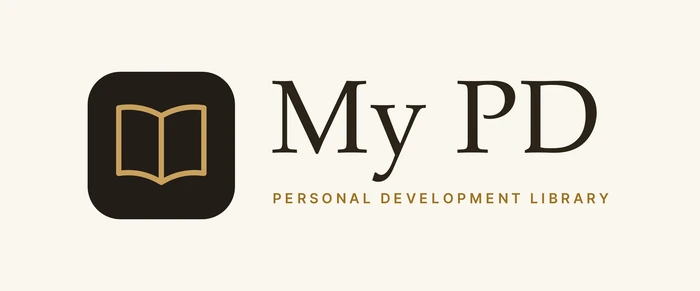
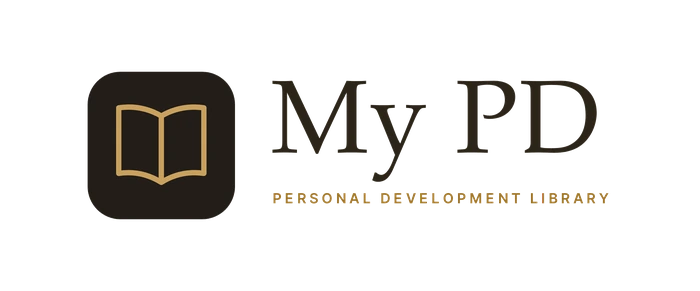
Add Dispatch It, completing the project set at seven
New page at /projects/dispatch-it, plus a collage tile, an interest option,
a prefill mapping and a sitemap entry. The sibling nav on all six existing
pages was regenerated so Dispatch It appears there too.

Dispatch It shipped a proper 1200x630 social card, so its page uses that for
og:image with summary_large_image, rather than the square icon the other six
fall back to.

Both the Dispatch It and My PD horizontal wordmarks had a flat cream
background baked in, which rendered as a visible block against the near-white
hero. Keyed out with a distance-based alpha ramp so the antialiased edges
survive.

No public URL was supplied for Dispatch It, so it carries the same demo
request as the other tools.

Claude-Session: https://claude.ai/code/session_014mb2YU36o7Daf5PkMpEeNJ

Changed region(s): [[0.39, 0.6495, 0.87, 0.7113]]

diff --git a/mkc-site/projects/dispatch-it.html b/mkc-site/projects/dispatch-it.html
@@ -1,0 +1,233 @@
+<!DOCTYPE html>
+<html lang="en">
+<head>
+  <meta charset="UTF-8" />
+  <meta name="viewport" content="width=device-width, initial-scale=1" />
+  <meta name="theme-color" content="#0f1113" />
+  <title>Dispatch It | MK Holding Co</title>
+  <meta name="description" content="Dispatch It is a pocket capture app for ClickUp. Say it once and it files itself in the right list, with the right date, and a one-tap undo on everything." />
+  <link rel="canonical" href="https://www.mkholdingco.com/projects/dispatch-it" />
+
+  <link rel="icon" type="image/png" href="/media/mkc-logo-1-150x150.png" />
+  <link rel="apple-touch-icon" href="/media/mkc-logo-1-150x150.png" />
+
+  <meta property="og:type" content="website" />
+  <meta property="og:site_name" content="MK Holding Co" />
+  <meta property="og:url" content="https://www.mkholdingco.com/projects/dispatch-it" />
+  <meta property="og:title" content="Dispatch It | MK Holding Co" />
+  <meta property="og:description" content="Dispatch It is a pocket capture app for ClickUp. Say it once and it files itself in the right list, with the right date, and a one-tap undo on everything." />
+  <meta property="og:image" content="https://www.mkholdingco.com/projects/assets/dispatch-it-card.webp" />
+  <meta name="twitter:card" content="summary_large_image" />
+  <meta name="twitter:title" content="Dispatch It | MK Holding Co" />
+  <meta name="twitter:description" content="Dispatch It is a pocket capture app for ClickUp. Say it once and it files itself in the right list, with the right date, and a one-tap undo on everything." />
+  <meta name="twitter:image" content="https://www.mkholdingco.com/projects/assets/dispatch-it-card.webp" />
+
+  <link rel="preconnect" href="https://fonts.googleapis.com" />
+  <link rel="preconnect" href="https://fonts.gstatic.com" crossorigin />
+  <link href="https://fonts.googleapis.com/css2?family=Inter:wght@300;400;500;600&family=Playfair+Display:wght@500;600&display=swap" rel="stylesheet" />
+  <link rel="stylesheet" href="/styles.css" />
+  <link rel="stylesheet" href="/project.css" />
+  <style>
+    body {
+      --accent: #e6a03c;
+      --accent-ink: #8f5f10;
+      --accent-wash: color-mix(in srgb, #e6a03c 12%, transparent);
+    }
+  </style>
+</head>
+<body>
+  <a class="skip-link" href="#main">Skip to content</a>
+
+  <header class="site-header">
+    <div class="shell header-inner">
+      <a href="/" class="brand" aria-label="MK Holding Co, home">
+        <picture>
+          <source srcset="/media/mkc-logo.webp" type="image/webp" />
+          <img src="/media/mkc-logo-1.png" alt="MK Holding Co" class="brand-logo" width="420" height="225" />
+        </picture>
+      </a>
+      <button class="nav-toggle" aria-label="Open menu" aria-expanded="false" aria-controls="primary-nav">
+        <span></span><span></span><span></span>
+      </button>
+      <nav class="site-nav" id="primary-nav" aria-label="Primary">
+        <a href="/#ventures">Projects</a>
+        <a href="/#approach">Approach</a>
+        <a href="/#standards">Standards</a>
+        <a href="/?project=dispatch-it#contact" class="nav-cta">Contact</a>
+      </nav>
+    </div>
+  </header>
+
+  <main id="main">
+    <nav class="crumb shell" aria-label="Breadcrumb">
+      <ol>
+        <li><a href="/">MK Holding Co</a></li>
+        <li><a href="/#ventures">Projects</a></li>
+        <li><span aria-current="page">Dispatch It</span></li>
+      </ol>
+    </nav>
+
+    <section class="proj-hero">
+      <div class="shell">
+        <img class="proj-mark" src="/projects/assets/dispatch-it-wordmark.webp" alt="Dispatch It" width="380" height="99" />
+        <p class="status">Progressive web app</p>
+        <h1>Say it once. It lands in the right list.</h1>
+        <p class="proj-lede">A pocket capture app for ClickUp. Type or say what is on your mind, and it files itself in the right place with the right date. Duplicates become updates, and every action can be undone.</p>
+        <div class="proj-actions">
+          <a class="btn btn-solid" href="/?project=dispatch-it#contact">Request a demo</a>
+          <a class="btn btn-line" href="/#ventures">All projects</a>
+        </div>
+      </div>
+    </section>
+
+    <section class="proj-section">
+      <div class="shell proj-intro">
+        <h2>Capture was never the hard part.</h2>
+        <div>
+          <p>Any notes app will take a thought in two seconds. The cost comes later, in the inbox of untriaged captures nobody wants to sort on a Friday afternoon.</p>
+          <p>Dispatch It closes that loop. It reads your whole ClickUp workspace, then picks the list, writes the title, sets the due date and assigns a priority. When it is confident, the capture files itself and you never think about it again.</p>
+          <p>When it is not confident, it asks first and shows the reasoning behind its suggestion rather than making you guess. Either way nothing is one-way: every action carries a one-tap undo, and the app learns from the corrections you make.</p>
+        </div>
+      </div>
+    </section>
+    <section class="proj-section proj-section--paper">
+      <div class="shell">
+        <header class="feature-head">
+          <h2>How it works</h2>
+          <p>Three steps, most of which you never see.</p>
+        </header>
+        <div class="flow">
+        <div class="flow-step">
+          <h3>Capture</h3>
+          <p>Type it, dictate it, or record a voice note. Attach a photo or a file if you like.</p>
+        </div>
+        <div class="flow-step">
+          <h3>Route</h3>
+          <p>AI reads your whole ClickUp workspace and picks the list, the title, the due date and the priority.</p>
+        </div>
+        <div class="flow-step">
+          <h3>Done</h3>
+          <p>Confident captures file themselves. Anything uncertain asks you first and shows its reasoning.</p>
+        </div>
+        </div>
+      </div>
+    </section>
+    <section class="proj-section">
+      <div class="shell">
+        <header class="feature-head">
+          <h2>Built to be trusted with the filing</h2>
+          <p>Automatic routing is only useful if you can see what it did and take it back.</p>
+        </header>
+        <div class="features">
+        <article class="feature">
+          <h3>Knows your workspace</h3>
+          <p>Every space, list, status and custom field, kept up to date in real time. New lists become destinations automatically, without a setup step.</p>
+        </article>
+        <article class="feature">
+          <h3>Confidence you can see</h3>
+          <p>Every suggestion shows its score and the reasoning behind it. You decide how bold auto-filing is allowed to get.</p>
+        </article>
+        <article class="feature">
+          <h3>Updates, not clones</h3>
+          <p>It spots when a capture matches an open task, by meaning rather than matching words, and adds it as an update instead of creating a duplicate.</p>
+        </article>
+        <article class="feature">
+          <h3>Undo anything</h3>
+          <p>One activity log across every device, with a confidence score on each action and one-tap undo.</p>
+        </article>
+        <article class="feature">
+          <h3>Learns from you</h3>
+          <p>Move a suggestion or undo one, and it remembers the correction next time.</p>
+        </article>
+        <article class="feature">
+          <h3>Made for your pocket</h3>
+          <p>Installs like an app and leads with voice. Works offline and sends when you are back in range, so drafts are never lost.</p>
+        </article>
+        <article class="feature">
+          <h3>Your way when you want it</h3>
+          <p>Skip the AI entirely and pick business, then type, then send, in two taps. Follow-ups, subtasks and account intake are built in.</p>
+        </article>
+        </div>
+      </div>
+    </section>
+    <section class="proj-section">
+      <div class="shell">
+        <header class="feature-head">
+          <h2>Private by design</h2>
+        </header>
+        <ul class="specs">
+        <li><span class="k">Credentials</span><span class="v">Your ClickUp connection and AI key live on a private server, never on your phone.</span></li>
+        <li><span class="k">Device access</span><span class="v">Every device needs a passcode.</span></li>
+        <li><span class="k">Sensitive lists</span><span class="v">Lists holding things like client account logins are never sent to AI.</span></li>
+        <li><span class="k">Platform</span><span class="v">Installable progressive web app, voice-first, offline-capable.</span></li>
+        </ul>
+      </div>
+    </section>
+
+    <section class="proj-cta">
+      <div class="shell">
+        <h2>See Dispatch It in action</h2>
+        <p>Dispatch It is not publicly listed. Request a walkthrough and we will show you how it routes a capture end to end, or tell us if you would like to build on it with us.</p>
+        <div class="proj-actions-center">
+          <a class="btn btn-solid" href="/?project=dispatch-it#contact">Request a demo</a>
+          <a class="btn btn-line" href="/?project=dispatch-it&amp;intent=partner#contact">Partner on this project</a>
+        </div>
+      </div>
+    </section>
+
+    <section class="more-projects">
+      <div class="shell">
+        <h2>Other projects</h2>
+        <div class="more-grid">
+        <a class="more-card" href="/projects/dayforge">
+          <img src="/projects/assets/dayforge-icon.webp" alt="" width="30" height="30" />
+          <span>DayForge</span>
+        </a>
+        <a class="more-card" href="/projects/contentflow">
+          <img src="/projects/assets/contentflow-icon.webp" alt="" width="30" height="30" />
+          <span>ContentFlow</span>
+        </a>
+        <a class="more-card" href="/projects/my-pd">
+          <img src="/projects/assets/my-pd-icon.webp" alt="" width="30" height="30" />
+          <span>My PD</span>
+        </a>
+        <a class="more-card" href="/projects/circuit-book">
+          <img src="/projects/assets/circuit-book-icon.webp" alt="" width="30" height="30" />
+          <span>Circuit Book</span>
+        </a>
+        <a class="more-card" href="/projects/pingpath">
+          <img src="/projects/assets/pingpath-icon.webp" alt="" width="30" height="30" />
+          <span>PingPath</span>
+        </a>
+        <a class="more-card" href="/projects/brand-craftsman">
+          <img src="/projects/assets/brand-craftsman-icon.webp" alt="" width="30" height="30" />
+          <span>The Brand Craftsman</span>
+        </a>
+        </div>
+      </div>
+    </section>
+  </main>
+
+  <footer class="site-footer">
+    <div class="shell footer-inner">
+      <a href="/" class="brand" aria-label="MK Holding Co, home">
+        <picture>
+          <source srcset="/media/mkc-logo-white.webp" type="image/webp" />
+          <img src="/media/Untitled-design-e1774482509240.png" alt="MK Holding Co" class="footer-logo" width="460" height="188" loading="lazy" />
+        </picture>
+      </a>
+      <nav class="footer-nav" aria-label="Footer">
+        <a href="/#ventures">Projects</a>
+        <a href="/#approach">Approach</a>
+        <a href="/#standards">Standards</a>
+        <a href="/#contact">Contact</a>
+      </nav>
+    </div>
+    <div class="shell">
+      <p class="colophon">&copy; <span id="year">2026</span> Mambay, LLC. All rights reserved.</p>
+    </div>
+  </footer>
+
+  <script src="/main.js" defer></script>
+</body>
+</html>

diff --git a/mkc-site/index.html b/mkc-site/index.html
@@ -131,6 +131,14 @@
 
         <ul class="collage">
           <li class="tile">
+            <a href="/projects/dispatch-it">
+              <img src="/projects/assets/dispatch-it-icon.webp" alt="" width="64" height="64" />
+              <span class="tile-name">Dispatch It</span>
+              <span class="tile-desc">Pocket capture for ClickUp. Say it once and it files itself in the right list.</span>
+              <span class="tile-kind">Progressive web app</span>
+            </a>
+          </li>
+          <li class="tile">
             <a href="/projects/dayforge">
               <img src="/projects/assets/dayforge-icon.webp" alt="" width="64" height="64" />
               <span class="tile-name">DayForge</span>
@@ -257,6 +265,7 @@
             <select id="cf-interest" name="interest">
               <option value="General enquiry">General enquiry</option>
               <option value="Partnership or investment">Partnership or investment</option>
+              <option value="Dispatch It">Dispatch It, request a demo</option>
               <option value="DayForge">DayForge, request a demo</option>
               <option value="ContentFlow">ContentFlow, request a demo</option>
               <option value="My PD">My PD, request a demo</option>

diff --git a/mkc-site/projects/dayforge.html b/mkc-site/projects/dayforge.html
@@ -200,6 +200,10 @@
       <div class="shell">
         <h2>Other projects</h2>
         <div class="more-grid">
+        <a class="more-card" href="/projects/dispatch-it">
+          <img src="/projects/assets/dispatch-it-icon.webp" alt="" width="30" height="30" />
+          <span>Dispatch It</span>
+        </a>
         <a class="more-card" href="/projects/contentflow">
           <img src="/projects/assets/contentflow-icon.webp" alt="" width="30" height="30" />
           <span>ContentFlow</span>

diff --git a/mkc-site/projects/brand-craftsman.html b/mkc-site/projects/brand-craftsman.html
@@ -132,6 +132,10 @@
       <div class="shell">
         <h2>Other projects</h2>
         <div class="more-grid">
+        <a class="more-card" href="/projects/dispatch-it">
+          <img src="/projects/assets/dispatch-it-icon.webp" alt="" width="30" height="30" />
+          <span>Dispatch It</span>
+        </a>
         <a class="more-card" href="/projects/dayforge">
           <img src="/projects/assets/dayforge-icon.webp" alt="" width="30" height="30" />
           <span>DayForge</span>

diff --git a/mkc-site/projects/circuit-book.html b/mkc-site/projects/circuit-book.html
@@ -175,6 +175,10 @@
       <div class="shell">
         <h2>Other projects</h2>
         <div class="more-grid">
+        <a class="more-card" href="/projects/dispatch-it">
+          <img src="/projects/assets/dispatch-it-icon.webp" alt="" width="30" height="30" />
+          <span>Dispatch It</span>
+        </a>
         <a class="more-card" href="/projects/dayforge">
           <img src="/projects/assets/dayforge-icon.webp" alt="" width="30" height="30" />
           <span>DayForge</span>

diff --git a/mkc-site/projects/contentflow.html b/mkc-site/projects/contentflow.html
@@ -154,6 +154,10 @@
       <div class="shell">
         <h2>Other projects</h2>
         <div class="more-grid">
+        <a class="more-card" href="/projects/dispatch-it">
+          <img src="/projects/assets/dispatch-it-icon.webp" alt="" width="30" height="30" />
+          <span>Dispatch It</span>
+        </a>
         <a class="more-card" href="/projects/dayforge">
           <img src="/projects/assets/dayforge-icon.webp" alt="" width="30" height="30" />
           <span>DayForge</span>

diff --git a/mkc-site/projects/my-pd.html b/mkc-site/projects/my-pd.html
@@ -145,6 +145,10 @@
       <div class="shell">
         <h2>Other projects</h2>
         <div class="more-grid">
+        <a class="more-card" href="/projects/dispatch-it">
+          <img src="/projects/assets/dispatch-it-icon.webp" alt="" width="30" height="30" />
+          <span>Dispatch It</span>
+        </a>
         <a class="more-card" href="/projects/dayforge">
           <img src="/projects/assets/dayforge-icon.webp" alt="" width="30" height="30" />
           <span>DayForge</span>

diff --git a/mkc-site/projects/pingpath.html b/mkc-site/projects/pingpath.html
@@ -170,6 +170,10 @@
       <div class="shell">
         <h2>Other projects</h2>
         <div class="more-grid">
+        <a class="more-card" href="/projects/dispatch-it">
+          <img src="/projects/assets/dispatch-it-icon.webp" alt="" width="30" height="30" />
+          <span>Dispatch It</span>
+        </a>
         <a class="more-card" href="/projects/dayforge">
           <img src="/projects/assets/dayforge-icon.webp" alt="" width="30" height="30" />
           <span>DayForge</span>

diff --git a/mkc-site/main.js b/mkc-site/main.js
@@ -38,6 +38,7 @@
   // Project pages link here as /?project=dayforge#contact, so the form opens
   // already pointed at the thing the visitor was just reading about.
   var PROJECT_LABELS = {
+    'dispatch-it': 'Dispatch It',
     'dayforge': 'DayForge',
     'contentflow': 'ContentFlow',
     'my-pd': 'My PD',
